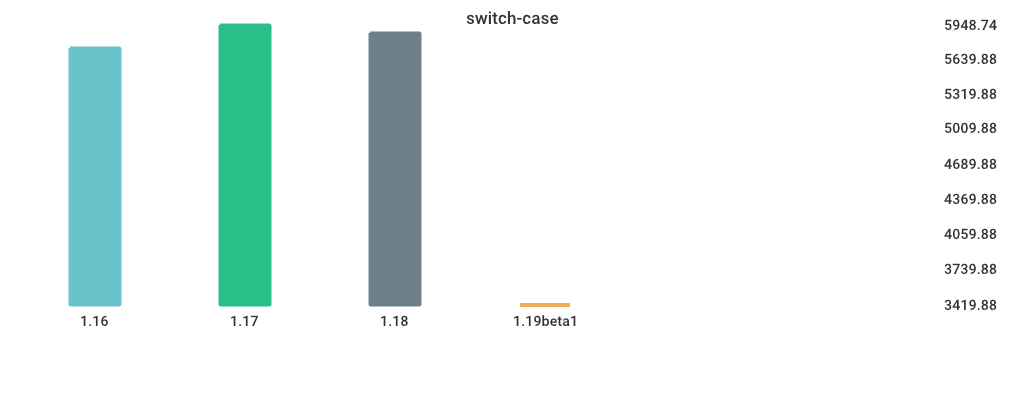
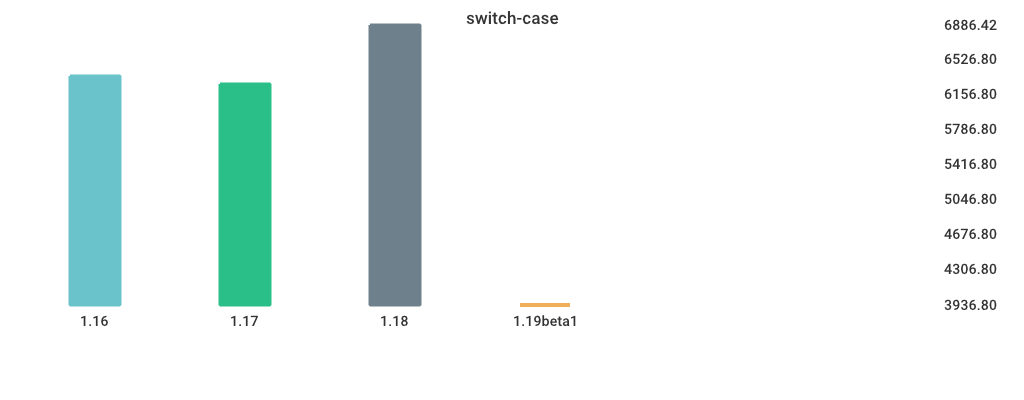
Update Benchmark Results Sun Jun 12 14:28:48 UTC 2022

diff --git a/results/results.md b/results/results.md
@@ -1,24 +1,13 @@
 # Benchmarks
 
-## Fibonacci
-
-| Version | Build Time (ms) | Run Time (ms) |
-| ------ | ------ | ------ |
-| 1.16 | 127.779254 | 5646.515535 |
-| 1.17 | 122.784347 | 4804.858351 |
-| 1.18 | 124.801970 | 4797.145490 |
-| 1.19beta1 | 263.151033 | 4795.725986 |
-
-![Fibonacci](./016be0f0bc3aacaadb309d0adc2b1024980e3775065236c79ab0d186380b4f83.png)
-
 ## switch-case
 
 | Version | Build Time (ms) | Run Time (ms) |
 | ------ | ------ | ------ |
-| 1.16 | 202.683233 | 5733.742207 |
-| 1.17 | 191.684014 | 5948.739481 |
-| 1.18 | 189.444957 | 5874.937130 |
-| 1.19beta1 | 325.088072 | 3419.882160 |
+| 1.16 | 263.811197 | 6343.349216 |
+| 1.17 | 238.468687 | 6257.976613 |
+| 1.18 | 246.765002 | 6886.424683 |
+| 1.19beta1 | 433.520261 | 3936.798287 |
 
 ![switch-case](./1af1469d75e77ed39c58041d45b37b329137876f59fb4c03529ebb65c78b40aa.png)
 
@@ -26,10 +15,32 @@
 
 | Version | Build Time (ms) | Run Time (ms) |
 | ------ | ------ | ------ |
-| 1.16 | 165.728130 | 3741.757810 |
-| 1.17 | 122.504851 | 3700.425796 |
-| 1.18 | 129.264966 | 5218.649684 |
-| 1.19beta1 | 270.173783 | 5219.312922 |
+| 1.16 | 180.814089 | 3989.836403 |
+| 1.17 | 150.013069 | 3933.852547 |
+| 1.18 | 155.946310 | 5220.186970 |
+| 1.19beta1 | 343.753163 | 5218.554552 |
 
 ![alloc_1.5k](./78691b2f49e91d20e4fc03ba30be4e2828c5acd9ddd58fbf8d3e5b21bed97b8d.png)
+
+## Fibonacci
+
+| Version | Build Time (ms) | Run Time (ms) |
+| ------ | ------ | ------ |
+| 1.16 | 161.896442 | 6085.998031 |
+| 1.17 | 152.539069 | 4686.269861 |
+| 1.18 | 157.223123 | 4809.554682 |
+| 1.19beta1 | 333.286497 | 4828.661027 |
+
+![Fibonacci](./016be0f0bc3aacaadb309d0adc2b1024980e3775065236c79ab0d186380b4f83.png)
+
+## Sort
+
+| Version | Build Time (ms) | Run Time (ms) |
+| ------ | ------ | ------ |
+| 1.16 | 180.804182 | 5654.892990 |
+| 1.17 | 169.206733 | 4458.299111 |
+| 1.18 | 173.171347 | 4295.631570 |
+| 1.19beta1 | 352.711813 | 458.461535 |
+
+![Sort](./bec69036aa27e7fab7d44cad3909477b76631c39ba46fd7841ea71aae7e5a735.png)
 
